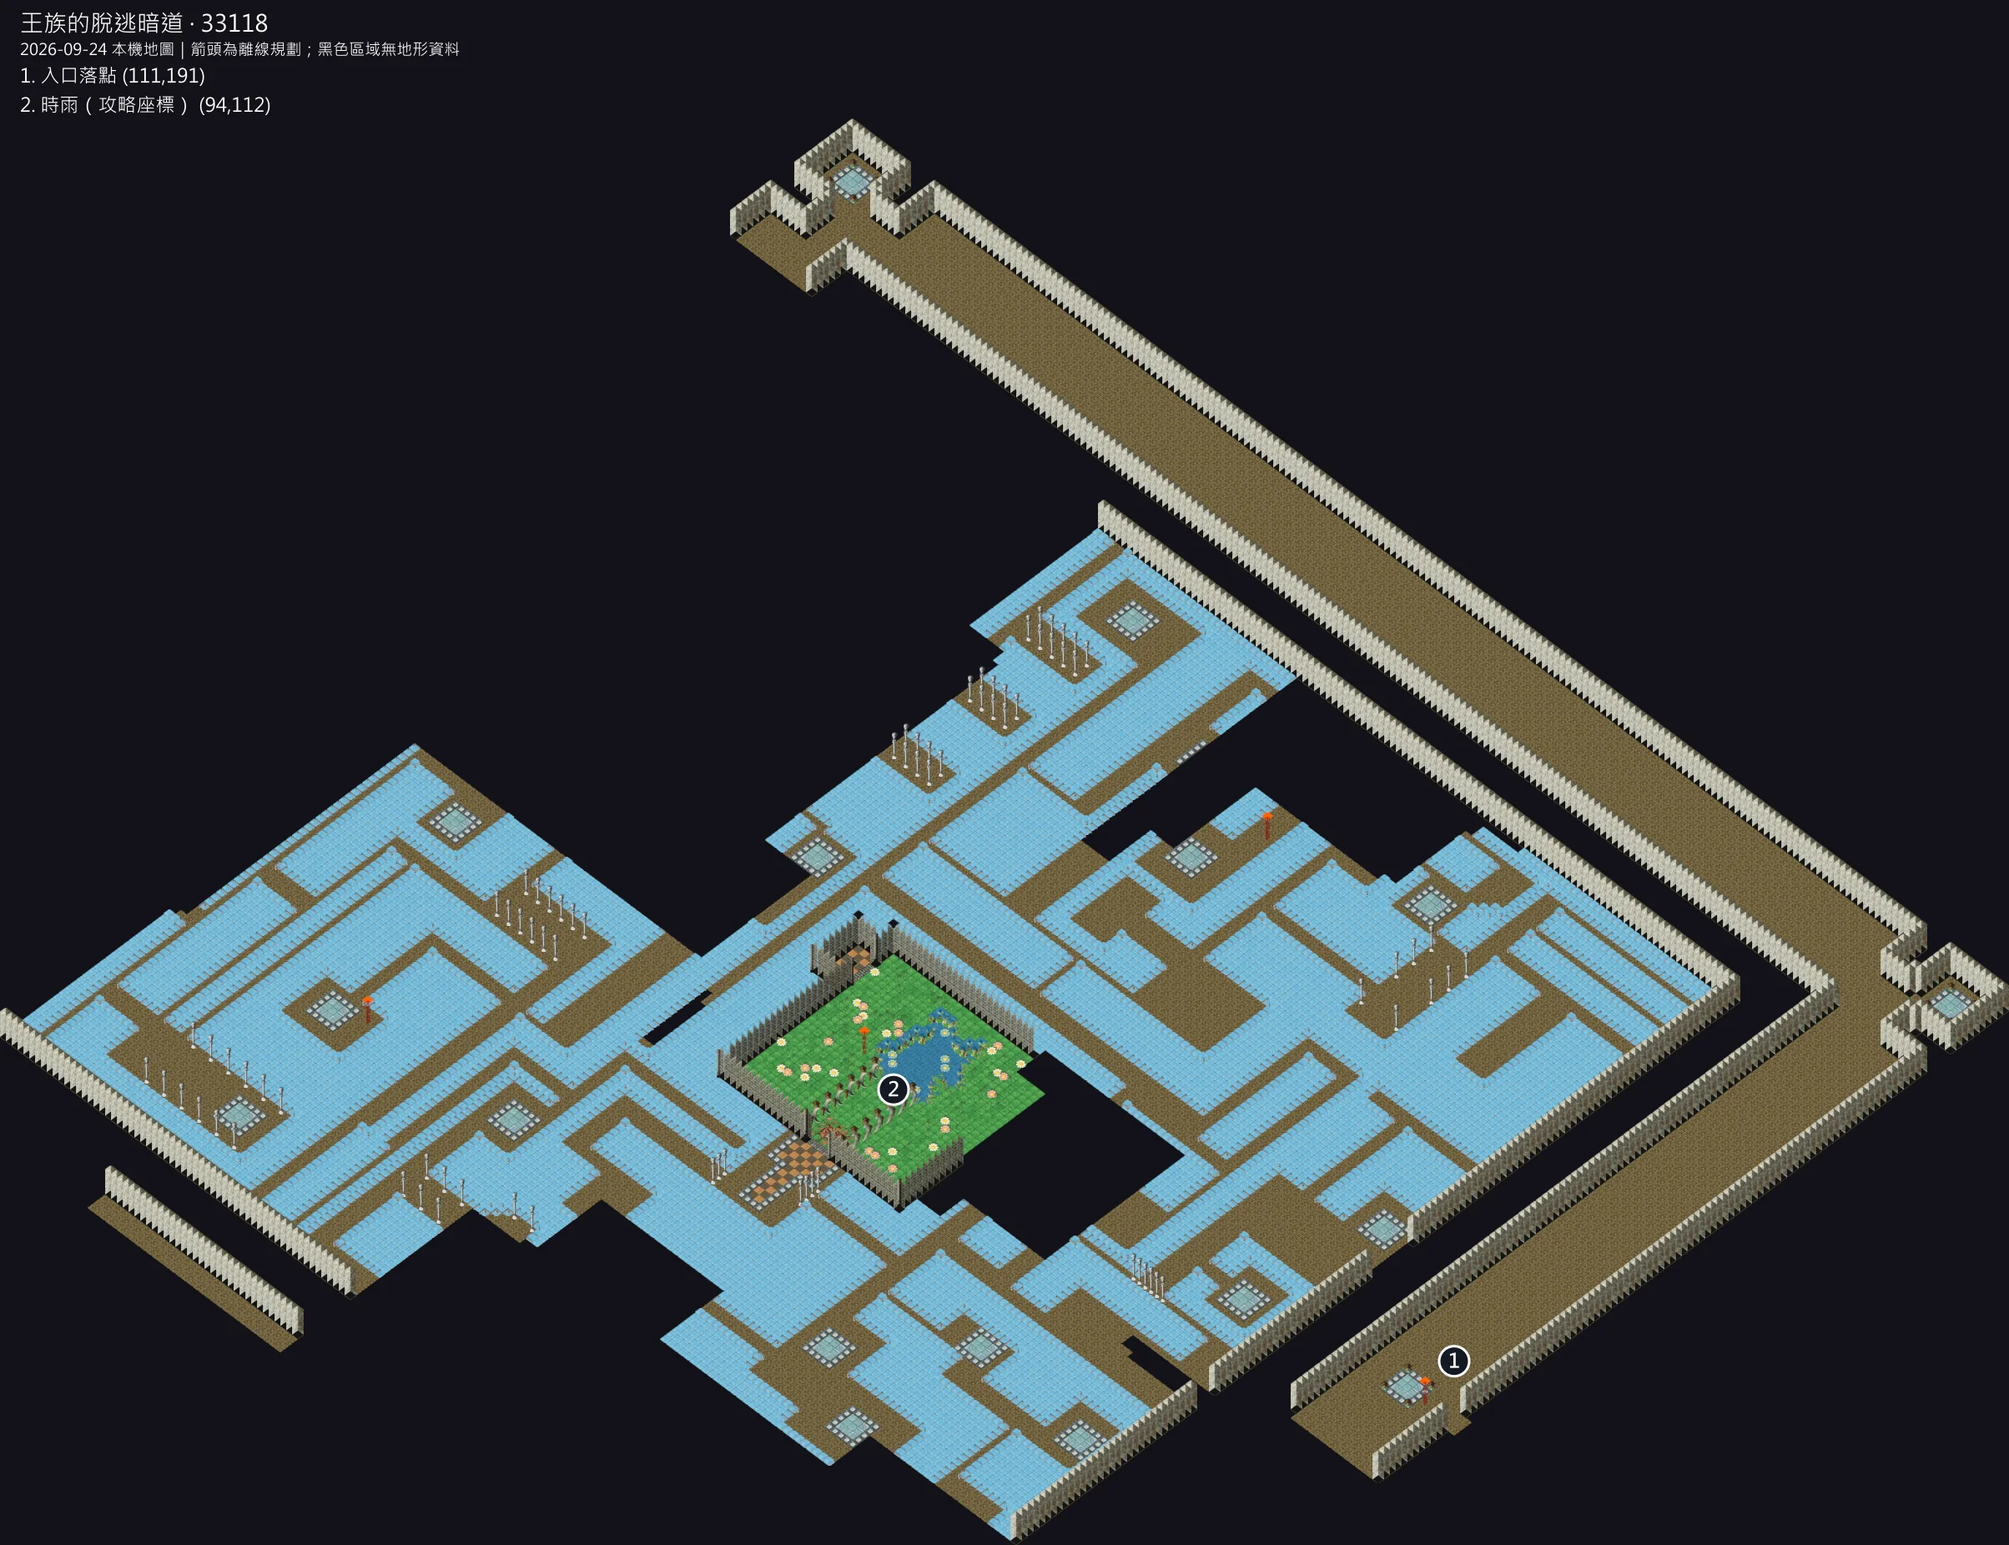
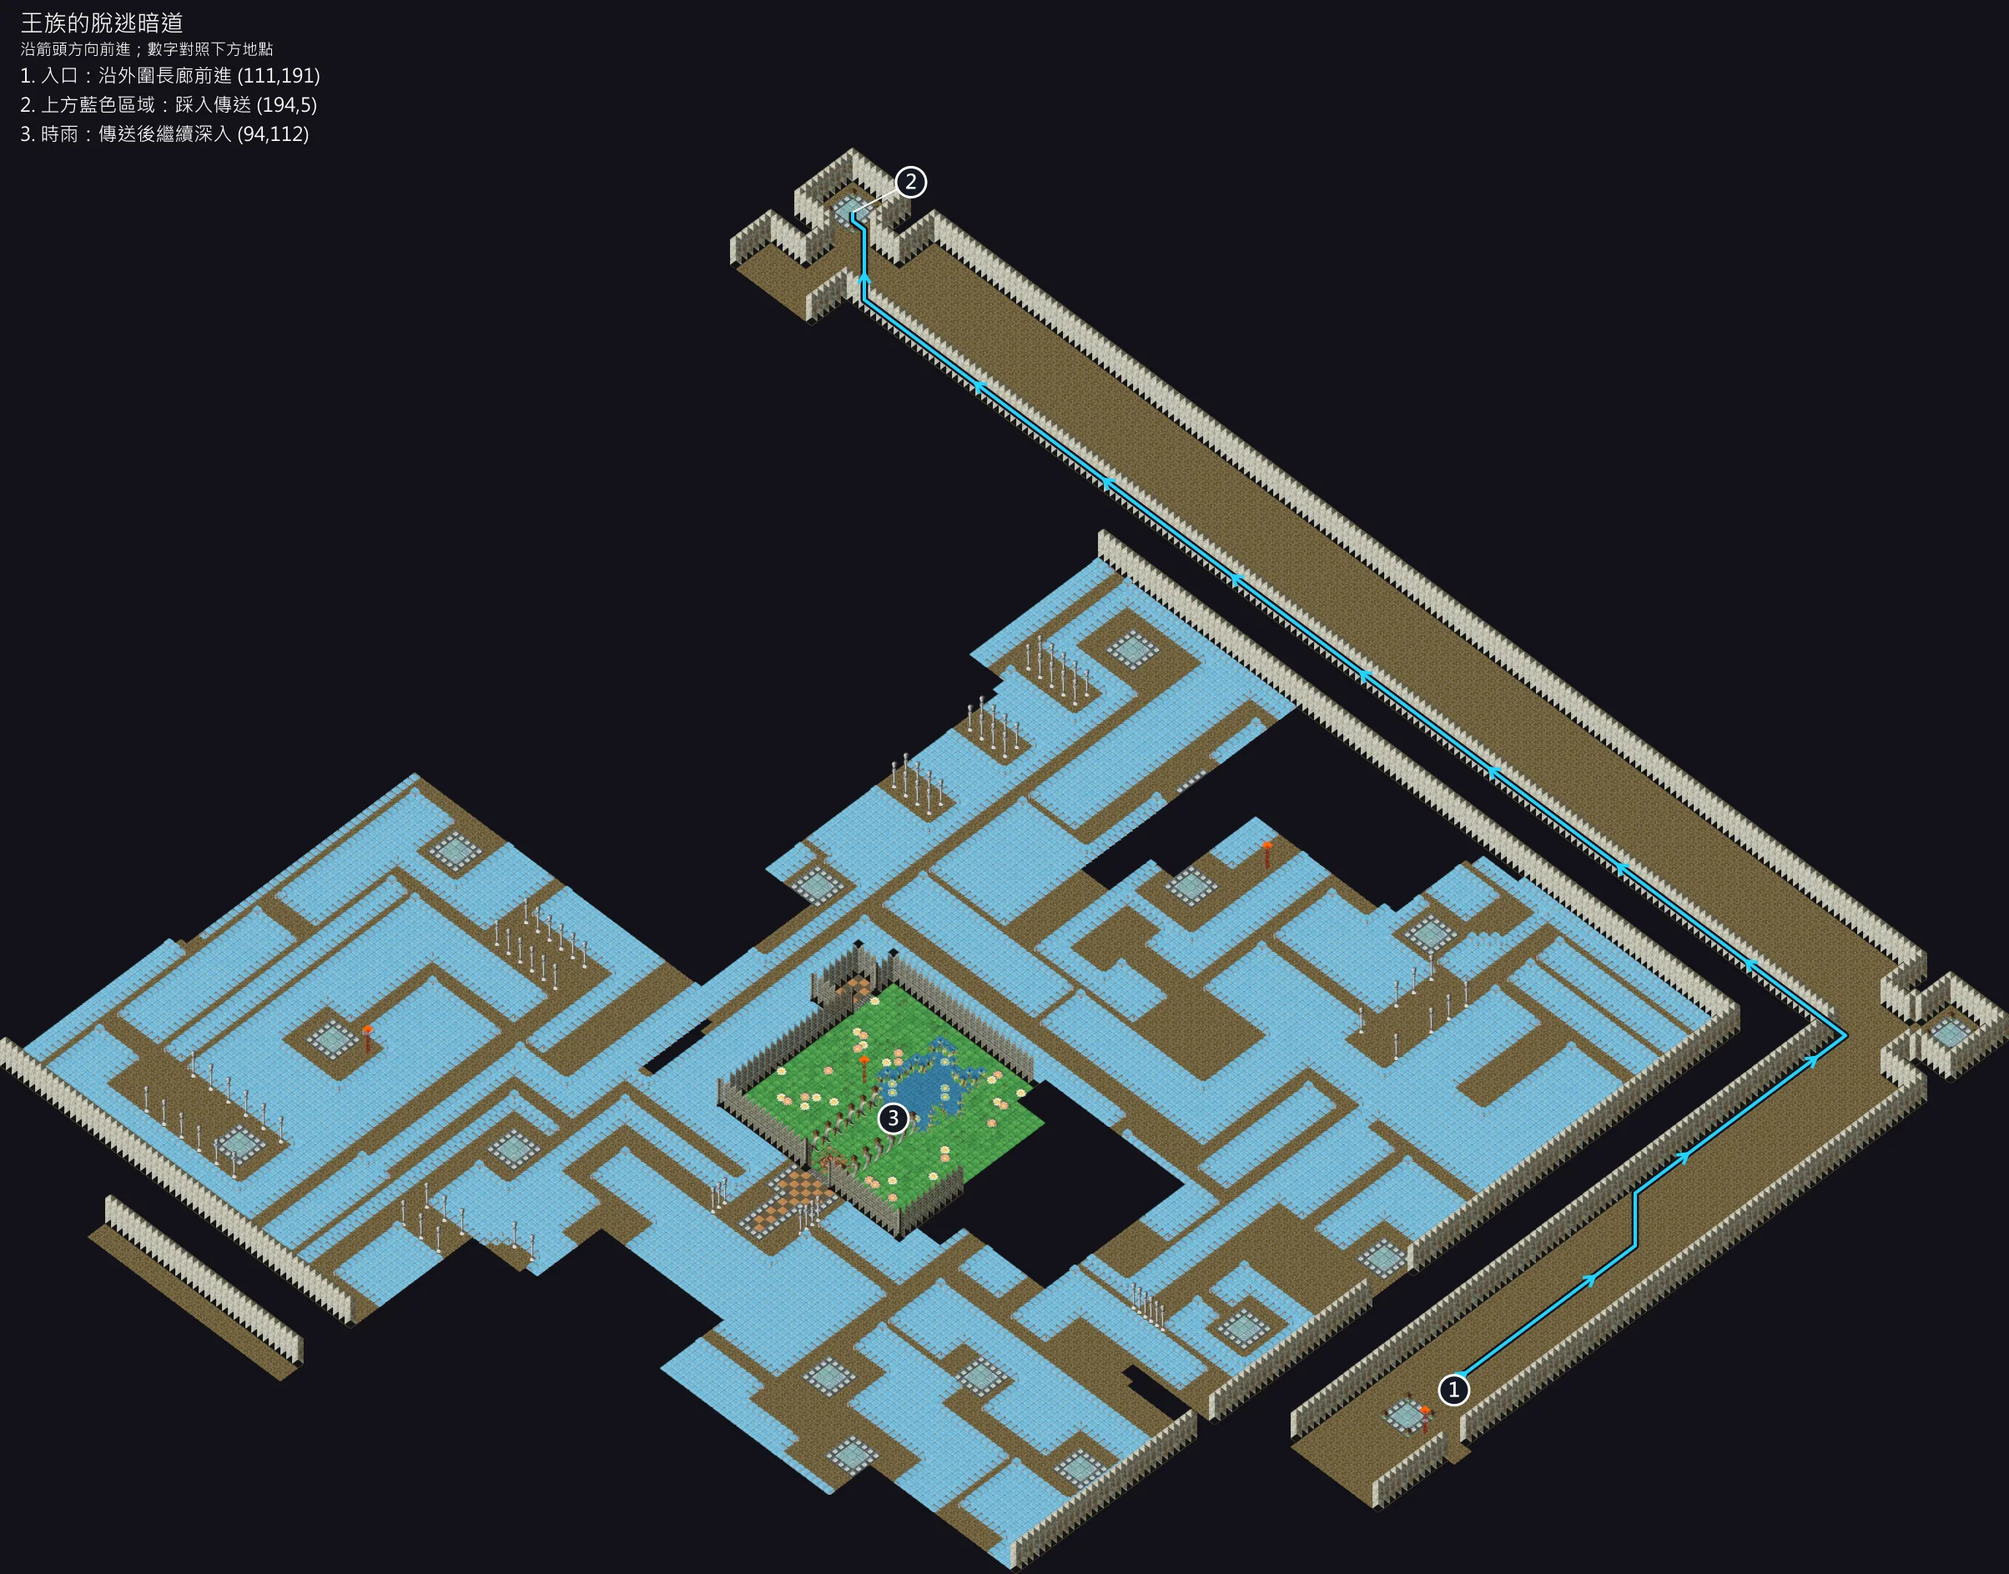
改善五等勳章玩家攻略並補上王族暗道傳送路線

Changed region(s): [[0.0, 0.0616, 1.0, 0.9849], [0.0, 0.0, 0.1557, 0.0923], [0.9032, 0.7079, 0.9344, 0.7387]]

diff --git a/content/pages/任務攻略/魔力任務/五等勳章.md b/content/pages/任務攻略/魔力任務/五等勳章.md
@@ -6,7 +6,9 @@ breadcrumb:
   - "魔力任務"
 ---
 
-本頁以**艾爾巴第五等勳章**為主。地圖取自本站隊伍於 **2026-09-24** 探索後的本機遊戲資料，搭配 [御劍軒攻略](https://cgsword.com/Mission411.htm)與[蔚藍幻境攻略](https://cg.skyey.tw/errand/mcaa09.htm)整理。
+持有艾爾巴第六等勳章後，到阿凱魯法城接受國王的委託，穿過王族暗道、登上大樹，再深入地下迎戰米特拉將軍。完成調查即可取得**艾爾巴第五等勳章**與**殊勳手鐲**。
+
+以下依艾爾巴路線說明接任、迷宮走法與領獎順序；走蘭國的玩家請看文末分歧提醒。
 
 ## 出發前
 
@@ -14,15 +16,15 @@ breadcrumb:
 | --- | --- |
 | 前置 | 對應路線的第六等勳章稱號 |
 | 起點 | 艾爾巴：阿凱魯法村／阿凱魯法城；蘭國：坎那貝拉村 |
-| 組隊參考 | 舊攻略建議 Lv.75～80 以上、5 人隊；不是硬性等級限制 |
+| 組隊參考 | 建議 Lv.75～80 以上、5 人隊；不是硬性等級限制 |
 | 限制 | 無職業、時間限制，可重解 |
 | 艾爾巴主線獎勵 | 永久稱號「艾爾巴第五等勳章」、殊勳手鐲 |
 
-先補滿血魔、準備補給並保留任務道具空間。**誓約的羽毛、藍色返魂珠等關鍵道具，舊攻略註記登出會消失**，取得後不要用登出代替回程。獎品浮動能力值與敵人血量尚未由本站完整測定，不把外站估值列成初心定值。
+路程包含多層迷宮與兩場頭目戰，出發前先補滿血魔、帶好補給，並保留任務道具空間。**誓約的羽毛、藍色返魂珠有登出消失限制**，取得後請走回程，不要登出回城。
 
 ## 艾爾巴流程速查
 
-`衛兵 → 國王領印 → 王族暗道／時雨 → 西方暗道 → 東方暗道 → 大樹5樓領羽毛 → 回1樓下地下 → 地下1～9階 → 最下層 → 漆黑之穴／米特拉 → 回5樓交珠 → 國王領勳章`
+`衛兵 → 國王領印 → 王族暗道上方藍色傳送區 → 時雨 → 西方暗道 → 東方暗道 → 大樹5樓領羽毛 → 回1樓下地下 → 地下1～9階 → 最下層 → 漆黑之穴／米特拉 → 回5樓交珠 → 國王領勳章`
 
 ### 1. 接任務、取得王族之印
 
@@ -30,57 +32,58 @@ breadcrumb:
 
 ### 2. 王族暗道與時雨
 
-深入暗道找**時雨 `(94,112)`**並戰鬥，敵方另有 7 名忍者；勝利後進入西方暗道。
+1. 進入暗道後，從圖中 **1 號入口 `(111,191)`** 出發，沿外圍長廊繞到圖的上方。
+2. 走到 **2 號藍色傳送區 `(194,5)`**，踩入藍色區域傳送。不要朝中央的時雨位置直接走，必須先經過這個傳送區。
+3. 傳送後繼續深入暗道，目標是圖中 **3 號時雨 `(94,112)`**。下圖箭頭畫到藍色傳送區為止；傳送後到時雨之間的轉點走法尚待補充。
+4. 與時雨交談開戰，敵方另有 7 名忍者。擊敗後會進入「王族用脫逃暗道 西方」。
 
-本機記錄的入口落點為 `(111,191)`。下圖標出入口與攻略所載時雨位置；**這張圖的內部轉場尚未整理成完整走法，因此沒有連成一條通關線**。時雨座標是外站參考，不以自動換圖紀錄裡的角色站位當 NPC 座標。
-
-<a href="/img/pages/任務攻略/魔力任務/五等勳章/33118.webp"><img src="/img/pages/任務攻略/魔力任務/五等勳章/33118.webp" alt="王族的脫逃暗道：入口與時雨位置，內部轉場走法待補" width="2408" height="1852" loading="lazy" decoding="async" /></a>
+<a href="/img/pages/任務攻略/魔力任務/五等勳章/33118.webp"><img src="/img/pages/任務攻略/魔力任務/五等勳章/33118.webp" alt="王族暗道：從1號入口沿外圍長廊走到2號上方藍色區域傳送，3號為時雨位置" width="2408" height="1887" loading="lazy" decoding="async" /></a>
 
 ### 3. 穿過西方、東方暗道
 
-西方暗道出口為 **`(63,18)`**，本次換圖後落在東方暗道 **`(11,79)`**。西方圖先標出口，未將戰後零散落點當成唯一入口。
+到西方暗道後，找 **`(63,18)`** 的出口前往東方暗道。進入東方後，從 **`(11,79)`** 一帶繼續前進。
 
 <a href="/img/pages/任務攻略/魔力任務/五等勳章/33119.webp"><img src="/img/pages/任務攻略/魔力任務/五等勳章/33119.webp" alt="王族用脫逃暗道西方：往東方暗道出口63,18" width="2200" height="2087" loading="lazy" decoding="async" /></a>
 
 東方暗道沿圖示路線前往 **`(43,5)`**，進大樹1樓後落在 `(28,37)`。
 
-> **初心實測差異：**兩份舊攻略寫東方 `(43,7)`；本機地圖顯示該格是普通地板，真正轉場格為 `(43,5)`，並有 2026-09-24 的換圖紀錄相符。
+> **出口提醒：** 舊攻略常寫 `(43,7)`，抵達附近後請繼續走到 **`(43,5)`** 才會換圖。
 
-<a href="/img/pages/任務攻略/魔力任務/五等勳章/33120.webp"><img src="/img/pages/任務攻略/魔力任務/五等勳章/33120.webp" alt="王族用脫逃暗道東方：11,79至實測出口43,5" width="2608" height="2124" loading="lazy" decoding="async" /></a>
+<a href="/img/pages/任務攻略/魔力任務/五等勳章/33120.webp"><img src="/img/pages/任務攻略/魔力任務/五等勳章/33120.webp" alt="王族用脫逃暗道東方：11,79至出口43,5" width="2608" height="2124" loading="lazy" decoding="async" /></a>
 
 ## 大樹固定樓層路線圖
 
-以下原貌圖由 MapTool 讀取本機 `.dat` 與遊戲圖像產生，並非擷取外站地圖。**數字對應圖上方的座標圖例；青藍箭頭是離線尋路結果，不是玩家逐格行走軌跡。**1樓另以橘色表示回程轉往地下的路線。黑色處代表沒有繪出的地形資料，不能據此判定一定是牆；部分場景顏色可能與遊戲調色盤不同。
+先沿**青藍色箭頭**一路上5樓領羽毛，再返回1樓，沿**橘色箭頭**轉往地下。圖中的數字對應上方地點與座標，點擊圖片可放大查看轉彎與樓梯位置。
 
-圖片可點開放大。地下隨機迷宮不包含在這組固定路線圖裡。
+大樹1～5樓走法固定；地下1～9階則是隨機迷宮，不適用這組固定路線。
 
 ### 4. 先上5樓領誓約的羽毛
 
-| 地圖 | 上樓入口的抵達位置（本次記錄） | 往上一樓的樓梯 |
+| 地圖 | 從下層上來的位置 | 往上一樓的樓梯 |
 | --- | --- | --- |
-| 大樹1樓（34008） | 東方暗道來處 `(28,37)` | `(41,8)` |
-| 大樹2樓（34009） | `(38,5)` | `(29,28)` |
-| 大樹3樓（34010） | `(29,20)` | `(10,37)` |
-| 大樹4樓（34011） | `(24,28)` | `(24,16)` |
-| 大樹5樓（34012） | `(24,36)` | 與神的使徒 `(24,23)` 交談 |
+| 大樹1樓 | 東方暗道來處 `(28,37)` | `(41,8)` |
+| 大樹2樓 | `(38,5)` | `(29,28)` |
+| 大樹3樓 | `(29,20)` | `(10,37)` |
+| 大樹4樓 | `(24,28)` | `(24,16)` |
+| 大樹5樓 | `(24,36)` | 與神的使徒 `(24,23)` 交談 |
 
-**1樓：**第一次進來沿青藍線上2樓。取得羽毛後返回1樓，沿橘線前往 `(28,23)` 下地下；不要還沒拿羽毛就先下迷宮。
+**1樓：** 從暗道進來後，先沿青藍線走到 `(41,8)` 上2樓。中途即使看到下地下的樓梯，也先不要下去，等拿到羽毛再回來。
 
 <a href="/img/pages/任務攻略/魔力任務/五等勳章/34008.webp"><img src="/img/pages/任務攻略/魔力任務/五等勳章/34008.webp" alt="大樹1樓：青藍線上2樓，橘線轉往地下" width="2535" height="2097" loading="lazy" decoding="async" /></a>
 
-**2樓：**從 `(38,5)` 前往 `(29,28)`。
+**2樓：** 抵達 `(38,5)` 後，沿青藍線穿過這一層，走到 `(29,28)` 上3樓。
 
 <a href="/img/pages/任務攻略/魔力任務/五等勳章/34009.webp"><img src="/img/pages/任務攻略/魔力任務/五等勳章/34009.webp" alt="大樹2樓：上3樓路線" width="2304" height="2004" loading="lazy" decoding="async" /></a>
 
-**3樓：**從 `(29,20)` 前往 `(10,37)`。
+**3樓：** 從 `(29,20)` 出發，沿青藍線繞過阻隔，找到 `(10,37)` 的樓梯上4樓。
 
 <a href="/img/pages/任務攻略/魔力任務/五等勳章/34010.webp"><img src="/img/pages/任務攻略/魔力任務/五等勳章/34010.webp" alt="大樹3樓：上4樓路線" width="2535" height="2062" loading="lazy" decoding="async" /></a>
 
-**4樓：**從 `(24,28)` 前往 `(24,16)`。
+**4樓：** 從 `(24,28)` 沿路走到 `(24,16)`，再上5樓。
 
 <a href="/img/pages/任務攻略/魔力任務/五等勳章/34011.webp"><img src="/img/pages/任務攻略/魔力任務/五等勳章/34011.webp" alt="大樹4樓：上5樓路線" width="2560" height="2062" loading="lazy" decoding="async" /></a>
 
-**5樓：**找阿爾傑斯神的使徒 `(24,23)`，答應協助後拿取**誓約的羽毛**。線路停在鄰格 `(24,24)`，圖上的標記才是攻略 NPC 座標。取得羽毛後返回1樓；不要把上樓的「抵達格」一律當成下樓的門格。
+**5樓：** 從 `(24,36)` 走到阿爾傑斯神的使徒 `(24,23)` 面前，交談選「是」，取得**誓約的羽毛**。確認拿到後，再循樓梯返回1樓，準備進地下迷宮。
 
 <a href="/img/pages/任務攻略/魔力任務/五等勳章/34012.webp"><img src="/img/pages/任務攻略/魔力任務/五等勳章/34012.webp" alt="大樹5樓：神的使徒位置與接近路線" width="2560" height="2062" loading="lazy" decoding="async" /></a>
 
@@ -88,15 +91,15 @@ breadcrumb:
 
 由**大樹1樓 `(28,23)`**下到固定地圖「大樹 地下」，抵達 `(10,20)`，再前往傳送點 **`(9,6)`**進入地下1階。
 
-> **樓層釐清：**舊攻略簡寫的「地下 `(28,23)`」實際是大樹**1樓**的下樓格；不要在「大樹 地下」裡找 `(28,23)`。
+> **別找錯樓層：** `(28,23)` 在大樹**1樓**。下樓後要找的是 `(9,6)` 的傳送點。
 
 <a href="/img/pages/任務攻略/魔力任務/五等勳章/34017.webp"><img src="/img/pages/任務攻略/魔力任務/五等勳章/34017.webp" alt="大樹地下：10,20至地下迷宮入口9,6" width="1536" height="1294" loading="lazy" decoding="async" /></a>
 
-**大樹地下1～9階是隨機迷宮。**本機留有本次探索紀錄，但不能當成每次都相同的通關地圖，因此不發布固定樓梯座標；請以當次迷宮找路，並記住回程方向。地下9階的傳送點接到固定地圖「大樹 最下層」。
+**大樹地下1～9階是隨機迷宮。** 每次樓梯位置可能不同，請逐層找路往下，並記住回程方向。到地下9階後，找傳送點進入「大樹 最下層」。
 
 ### 6. 最下層、漆黑之穴與米特拉將軍
 
-本次進入最下層的位置為 `(23,21)`。前往 `(21,8)` 附近，調查 **`(21,7)`**，進入漆黑之穴。該次交談換圖的落點為 `(8,5)`。
+從地下9階進入最下層後，會抵達 `(23,21)`。沿青藍線走到 `(21,8)` 附近，調查面前的 **`(21,7)`**，進入漆黑之穴，抵達 `(8,5)`。
 
 <a href="/img/pages/任務攻略/魔力任務/五等勳章/34018.webp"><img src="/img/pages/任務攻略/魔力任務/五等勳章/34018.webp" alt="大樹最下層：23,21至洞穴調查處21,7" width="1664" height="1332" loading="lazy" decoding="async" /></a>
 
@@ -104,23 +107,24 @@ breadcrumb:
 
 <a href="/img/pages/任務攻略/魔力任務/五等勳章/34019.webp"><img src="/img/pages/任務攻略/魔力任務/五等勳章/34019.webp" alt="漆黑之穴：8,5至米特拉將軍附近" width="2048" height="1678" loading="lazy" decoding="async" /></a>
 
-本機戰前／戰後雖都顯示「漆黑之穴」，地圖編號分別是 `34019`／`34020`；上圖為戰前地形，不表示戰後仍有同樣的 NPC。戰後與將軍交談的紀錄會回到最下層 `(21,8)`，再由 `(23,21)` 返回地下9階。
+戰後別急著離開，先與將軍交談、確認拿到藍色返魂珠。回到最下層 `(21,8)` 後，走回 `(23,21)` 的傳送點返回地下9階，開始往上走回大樹。
 
 ### 7. 交還返魂珠、領取第五等勳章
 
-沿地下迷宮返回大樹，重新上5樓，向神的使徒交付**誓約的羽毛、藍色返魂珠**。本次交談紀錄顯示會被傳到米內葛爾島 `(406,146)`。最後回阿凱魯法城找倫達國王，領取**艾爾巴第五等勳章**稱號與殊勳手鐲。
+沿地下迷宮逐層返回大樹，再上5樓找神的使徒，交出**誓約的羽毛、藍色返魂珠**，即可被送到米內葛爾島 `(406,146)`。
+
+**此時還沒領到勳章！** 最後要回阿凱魯法城，找倫達國王 `(24,20)` 回報，領取**艾爾巴第五等勳章**稱號與**殊勳手鐲**，任務才算完成。
 
 ## 蘭國與露比支線
 
-本次本機路線是艾爾巴，**未把蘭國或露比追加劇情標成實測完成**。
+**蘭國玩家的交付對象不同，不要照艾爾巴路線交珠。**
 
 蘭國從坎那貝拉村的士兵霍吉 `(60,66)` 開始，經偵訊調查室、城堡地下迷宮接入王族暗道。後半段會將羽毛與藍珠交給露比，涉及露比的蠟燭、制裁之處及紅色返魂珠；**不能照艾爾巴流程直接交給神的使徒結案**。詳細分歧請對照[蔚藍幻境的蘭國流程](https://cg.skyey.tw/errand/mcaa09.htm)。
 
-已有五等稱號後可重解挑戰露比。兩來源對部分對話選項及後續勳章條件的描述不一致，本頁暫不提供未驗證的按鈕指示，亦不把露比掉落品列成首次主線必得獎勵。
+已有五等稱號後可重解挑戰露比，這是追加支線，不是第一次領五等勳章的必經戰鬥。支線對話選項與後續條件仍待確認；露比的掉落品也不是首次主線必得獎勵。
 
 ## 資料來源與更新
 
 - [御劍軒：五等勳章－大樹調查](https://cgsword.com/Mission411.htm)：任務架構、接任 NPC、上樓樓梯與兩國分歧。
 - [蔚藍幻境：大樹調查（五等勳章）](https://cg.skyey.tw/errand/mcaa09.htm)：流程交叉核對、任務道具限制。
-- 本站 2026-09-24 艾爾巴隊伍本機 `.dat` 及地圖觀測：固定地圖底圖、樓梯與抵達位置、漆黑之穴交談轉場。僅使用任務所需地圖資料，未公開角色或帳號紀錄。
-- 2026-09-25：新增攻略與 11 張固定地圖，標註東方出口 `(43,5)`、1樓下地下 `(28,23)`；王族暗道內部轉場完整走法仍待補。
+- 2026-09-25：依玩家補充，加入王族暗道「入口 → 上方藍色區域傳送」走法與箭頭，整理大樹往返及領獎提醒。
